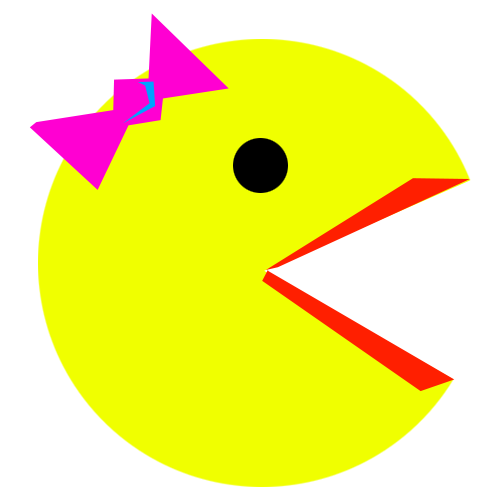
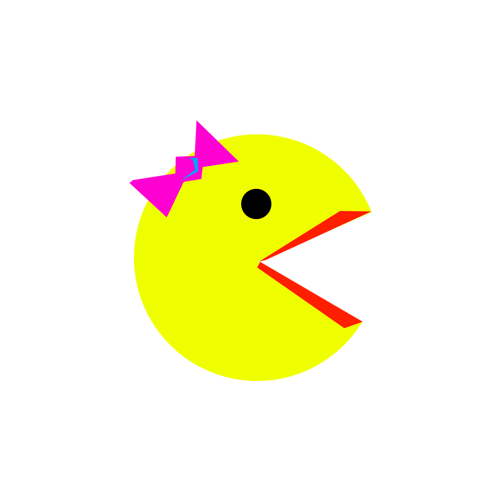
fix images

diff --git a/Final Game/Shared Code/Game.cs b/Final Game/Shared Code/Game.cs
@@ -32,8 +32,8 @@ namespace HuntTheWumpus.SharedCode.GameCore
         void GraphicsManager_DeviceCreated(object sender, System.EventArgs e)
         {
             Log.Info("Graphics device created");
-            GraphicsManager.PreferredBackBufferWidth = 1920;
-            GraphicsManager.PreferredBackBufferHeight = 1080;
+            GraphicsManager.PreferredBackBufferWidth = 1366;
+            GraphicsManager.PreferredBackBufferHeight = 768;
             //GraphicsManager.PreferredBackBufferWidth = (int)(GraphicsManager.GraphicsDevice.Adapter.CurrentDisplayMode.Width * 0.6);
             //GraphicsManager.PreferredBackBufferHeight = (int)(GraphicsManager.GraphicsDevice.Adapter.CurrentDisplayMode.Height * 0.6);
             GraphicsManager.ApplyChanges();

diff --git a/Final Game/Shared Code/GUI/Animation.cs b/Final Game/Shared Code/GUI/Animation.cs
@@ -151,7 +151,6 @@ namespace HuntTheWumpus.SharedCode.GUI
             {
                 _TargetPosition = value;
                 InitialPosition = CurrentPosition.Clone();
-
             }
         }
 
